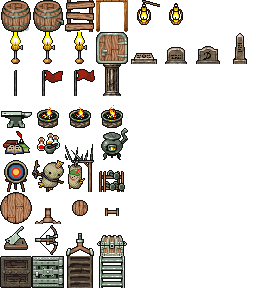
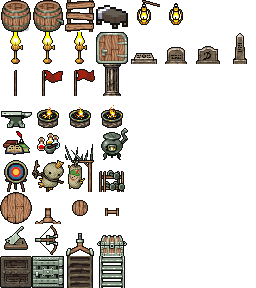
new doodads for worldgen screen, lots of graphics cleanup

Changed region(s): [[0.375, 0.0, 0.5, 0.125]]

diff --git a/DwarfCorp/DwarfCorpXNA/Scripting/Crafting/CraftLibrary.cs b/DwarfCorp/DwarfCorpXNA/Scripting/Crafting/CraftLibrary.cs
@@ -86,7 +86,7 @@ namespace DwarfCorp
                         {
                             new Quantitiy<Resource.ResourceTags>(Resource.ResourceTags.Fuel, 1)
                         },
-                        Icon = new Gui.TileReference("furniture", 5),
+                        Icon = new Gui.TileReference("furniture", 9),
                         BaseCraftTime = 10,
                         Prerequisites = new List<CraftItem.CraftPrereq>() { CraftItem.CraftPrereq.OnGround},
                         CraftLocation = ""
@@ -118,7 +118,7 @@ namespace DwarfCorp
                         {
                             new Quantitiy<Resource.ResourceTags>(Resource.ResourceTags.Stone, 1)
                         },
-                        Icon = new Gui.TileReference("furniture", 34),
+                        Icon = new Gui.TileReference("furniture", 66),
                         BaseCraftTime = 10,
                         Prerequisites = new List<CraftItem.CraftPrereq>() { CraftItem.CraftPrereq.NearWall},
                         CraftLocation = ""
@@ -134,7 +134,7 @@ namespace DwarfCorp
                         {
                             new Quantitiy<Resource.ResourceTags>(Resource.ResourceTags.Metal, 1)
                         },
-                        Icon = new Gui.TileReference("furniture", 35),
+                        Icon = new Gui.TileReference("furniture", 67),
                         BaseCraftTime = 10,
                         Prerequisites = new List<CraftItem.CraftPrereq>() { CraftItem.CraftPrereq.NearWall},
                         CraftLocation = ""
@@ -150,7 +150,7 @@ namespace DwarfCorp
                         {
                             new Quantitiy<Resource.ResourceTags>(Resource.ResourceTags.Wood, 1)
                         },
-                        Icon = new Gui.TileReference("furniture", 7),
+                        Icon = new Gui.TileReference("furniture", 11),
                         BaseCraftTime = 10,
                         Prerequisites = new List<CraftItem.CraftPrereq>() { CraftItem.CraftPrereq.NearWall},
                         CraftLocation = ""
@@ -166,7 +166,7 @@ namespace DwarfCorp
                         {
                             new Quantitiy<Resource.ResourceTags>(Resource.ResourceTags.Stone, 1)
                         },
-                        Icon = new Gui.TileReference("furniture", 32),
+                        Icon = new Gui.TileReference("furniture", 64),
                         BaseCraftTime = 10,
                         Prerequisites = new List<CraftItem.CraftPrereq>() { CraftItem.CraftPrereq.NearWall},
                         CraftLocation = ""
@@ -182,7 +182,7 @@ namespace DwarfCorp
                         {
                             new Quantitiy<Resource.ResourceTags>(Resource.ResourceTags.Metal, 1)
                         },
-                        Icon = new Gui.TileReference("furniture", 33),
+                        Icon = new Gui.TileReference("furniture", 65),
                         BaseCraftTime = 10,
                         Prerequisites = new List<CraftItem.CraftPrereq>() { CraftItem.CraftPrereq.NearWall},
                         CraftLocation = ""
@@ -300,7 +300,7 @@ namespace DwarfCorp
                             new Quantitiy<Resource.ResourceTags>(Resource.ResourceTags.Metal, 2),
                             new Quantitiy<Resource.ResourceTags>(Resource.ResourceTags.Magical, 1),
                         },
-                        Icon = new Gui.TileReference("furniture", 29),
+                        Icon = new Gui.TileReference("furniture", 57),
                         BaseCraftTime = 30,
                         Prerequisites = new List<CraftItem.CraftPrereq>() { CraftItem.CraftPrereq.OnGround},
                         CraftLocation = ""
@@ -316,7 +316,7 @@ namespace DwarfCorp
                         {
                             new Quantitiy<Resource.ResourceTags>(Resource.ResourceTags.Wood, 1),
                         },
-                        Icon = new Gui.TileReference("furniture", 26),
+                        Icon = new Gui.TileReference("furniture", 50),
                         BaseCraftTime = 3,
                         Prerequisites = new List<CraftItem.CraftPrereq>() { CraftItem.CraftPrereq.OnGround},
                         CraftLocation = ""
@@ -332,7 +332,7 @@ namespace DwarfCorp
                         {
                             new Quantitiy<Resource.ResourceTags>(Resource.ResourceTags.Wood, 4),
                         },
-                        Icon = new Gui.TileReference("furniture", 24),
+                        Icon = new Gui.TileReference("furniture", 48),
                         BaseCraftTime = 50,
                         Prerequisites = new List<CraftItem.CraftPrereq>() { CraftItem.CraftPrereq.OnGround},
                         CraftLocation = ""
@@ -348,7 +348,7 @@ namespace DwarfCorp
                         {
                             new Quantitiy<Resource.ResourceTags>(Resource.ResourceTags.Metal, 4),
                         },
-                        Icon = new Gui.TileReference("furniture", 12),
+                        Icon = new Gui.TileReference("furniture", 24),
                         BaseCraftTime = 50,
                         Prerequisites = new List<CraftItem.CraftPrereq>() { CraftItem.CraftPrereq.OnGround},
                         CraftLocation = ""
@@ -364,7 +364,7 @@ namespace DwarfCorp
                         {
                             new Quantitiy<Resource.ResourceTags>(Resource.ResourceTags.Fuel, 4),
                         },
-                        Icon = new Gui.TileReference("furniture", 13),
+                        Icon = new Gui.TileReference("furniture", 25),
                         BaseCraftTime = 50,
                         Prerequisites = new List<CraftItem.CraftPrereq>() { CraftItem.CraftPrereq.OnGround}
                     }
@@ -379,7 +379,7 @@ namespace DwarfCorp
                         {
                             new Quantitiy<Resource.ResourceTags>(Resource.ResourceTags.Fuel, 2),
                         },
-                        Icon = new Gui.TileReference("furniture", 19),
+                        Icon = new Gui.TileReference("furniture", 35),
                         BaseCraftTime = 50,
                         Prerequisites = new List<CraftItem.CraftPrereq>() { CraftItem.CraftPrereq.OnGround},
                         CraftLocation = ""
@@ -396,7 +396,7 @@ namespace DwarfCorp
                             new Quantitiy<Resource.ResourceTags>(Resource.ResourceTags.Wood, 2),
                              new Quantitiy<Resource.ResourceTags>(Resource.ResourceTags.Metal, 2),
                         },
-                        Icon = new Gui.TileReference("furniture", 28),
+                        Icon = new Gui.TileReference("furniture", 56),
                         BaseCraftTime = 50,
                         Prerequisites = new List<CraftItem.CraftPrereq>() { CraftItem.CraftPrereq.OnGround},
                         CraftLocation = ""
@@ -445,7 +445,7 @@ namespace DwarfCorp
                         {
                             new Quantitiy<Resource.ResourceTags>(Resource.ResourceTags.Grain, 4),
                         },
-                        Icon = new Gui.TileReference("furniture", 21),
+                        Icon = new Gui.TileReference("furniture", 41),
                         BaseCraftTime = 50,
                         Prerequisites = new List<CraftItem.CraftPrereq>() { CraftItem.CraftPrereq.OnGround},
                         CraftLocation = ""
@@ -461,7 +461,7 @@ namespace DwarfCorp
                         {
                             new Quantitiy<Resource.ResourceTags>(Resource.ResourceTags.Magical, 2),
                         },
-                        Icon = new Gui.TileReference("furniture", 17),
+                        Icon = new Gui.TileReference("furniture", 33),
                         BaseCraftTime = 50,
                         Prerequisites = new List<CraftItem.CraftPrereq>() { CraftItem.CraftPrereq.OnGround},
                         CraftLocation = ""
@@ -477,7 +477,7 @@ namespace DwarfCorp
                         {
                             new Quantitiy<Resource.ResourceTags>(Resource.ResourceTags.Magical, 2),
                         },
-                        Icon = new Gui.TileReference("furniture", 16),
+                        Icon = new Gui.TileReference("furniture", 32),
                         BaseCraftTime = 50,
                         Prerequisites = new List<CraftItem.CraftPrereq>() { CraftItem.CraftPrereq.OnGround},
                         CraftLocation = ""
@@ -493,7 +493,7 @@ namespace DwarfCorp
                         {
                             new Quantitiy<Resource.ResourceTags>(Resource.ResourceTags.Magical, 4),
                         },
-                        Icon = new Gui.TileReference("furniture", 16),
+                        Icon = new Gui.TileReference("furniture", 32),
                         BaseCraftTime = 50,
                         Prerequisites = new List<CraftItem.CraftPrereq>() { CraftItem.CraftPrereq.OnGround},
                         CraftLocation = ""

diff --git a/DwarfCorp/DwarfCorpXNA/AssetManagement/ContentPaths.cs b/DwarfCorp/DwarfCorpXNA/AssetManagement/ContentPaths.cs
@@ -352,7 +352,6 @@ namespace DwarfCorp
             public static string slice = ProgramData.CreatePath("Effects", "slice");
             public static string slash = ProgramData.CreatePath("Effects", "slash");
             public static string claw = ProgramData.CreatePath("Effects", "claw");
-            public static string claws = ProgramData.CreatePath("Effects", "claws");
             public static string flash = ProgramData.CreatePath("Effects", "flash");
             public static string rings = ProgramData.CreatePath("Effects", "ring");
             public static string bite = ProgramData.CreatePath("Effects", "bite");
@@ -560,7 +559,7 @@ namespace DwarfCorp
                 public static string underconstruction = ProgramData.CreatePath("Entities", "DwarfObjects", "underconstruction");
                 public static string constructiontape = ProgramData.CreatePath("Entities", "DwarfObjects", "constructiontape");
                 public static string fence = ProgramData.CreatePath("Entities", "DwarfObjects", "fence");
-                public static string crafts = ProgramData.CreatePath("Entities", "DwarfObjects", "crafts");
+                public static string crafts = ProgramData.CreatePath("newgui", "crafts");
                 public static string trinkets_carve_insets_bone = ProgramData.CreatePath("newgui", "trinkets-carve-insets-bone");
                 public static string trinkets_carve_insets = ProgramData.CreatePath("newgui", "trinkets-carve-insets");
                 public static string trinkets_cast_insets = ProgramData.CreatePath("newgui", "trinkets-cast-insets");
@@ -672,13 +671,10 @@ namespace DwarfCorp
         }
         public class GUI
         {
-            public static string gui_widgets = ProgramData.CreatePath("GUI", "gui_widgets");
-            public static string icons = ProgramData.CreatePath("GUI", "icons");
+            public static string icons = ProgramData.CreatePath("newgui", "icons");
             public static string indicators = ProgramData.CreatePath("GUI", "indicators");
             public static string map_icons = ProgramData.CreatePath("GUI", "map_icons");
-            public static string pointers = ProgramData.CreatePath("GUI", "pointers");
-            public static string room_icons = ProgramData.CreatePath("GUI", "room_icons");
-            public static string gui_minimap = ProgramData.CreatePath("GUI", "gui_minimap");
+            public static string room_icons = ProgramData.CreatePath("newgui", "room_icons");
             public static string dorf_diplo = ProgramData.CreatePath("GUI", "diplo-dorf");
             public static string checker = ProgramData.CreatePath("GUI", "checker");
             public static string background = ProgramData.CreatePath("GUI", "background");

diff --git a/DwarfCorp/DwarfCorpXNA/Scripting/Factions/DesignationDrawer.cs b/DwarfCorp/DwarfCorpXNA/Scripting/Factions/DesignationDrawer.cs
@@ -79,31 +79,31 @@ namespace DwarfCorp
             DesignationProperties.Add(DesignationType.Dig, new DesignationTypeProperties
             {
                 Color = Color.Red,
-                Icon = new NamedImageFrame("newgui/pointers2", 32, 1, 0)
+                Icon = new NamedImageFrame("newgui/pointers", 32, 1, 0)
             });
 
             DesignationProperties.Add(DesignationType.Chop, new DesignationTypeProperties
             {
                 Color = Color.LightGreen,
-                Icon = new NamedImageFrame("newgui/pointers2", 32, 5, 0)
+                Icon = new NamedImageFrame("newgui/pointers", 32, 5, 0)
             });
 
             DesignationProperties.Add(DesignationType.Gather, new DesignationTypeProperties
             {
                 Color = Color.Orange,
-                Icon = new NamedImageFrame("newgui/pointers2", 32, 6, 0)
+                Icon = new NamedImageFrame("newgui/pointers", 32, 6, 0)
             });
 
             DesignationProperties.Add(DesignationType.Attack, new DesignationTypeProperties
             {
                 Color = Color.Red,
-                Icon = new NamedImageFrame("newgui/pointers2", 32, 2, 0)
+                Icon = new NamedImageFrame("newgui/pointers", 32, 2, 0)
             });
 
             DesignationProperties.Add(DesignationType.Wrangle, new DesignationTypeProperties
             {
                 Color = Color.Tomato,
-                Icon = new NamedImageFrame("newgui/pointers2", 32, 4, 1)
+                Icon = new NamedImageFrame("newgui/pointers", 32, 4, 1)
             });
         }
 

diff --git a/DwarfCorp/DwarfCorpXNA/Entities/Animals/Spider.cs b/DwarfCorp/DwarfCorpXNA/Entities/Animals/Spider.cs
@@ -92,7 +92,7 @@ namespace DwarfCorp
 
             // The bird can peck at its enemies (0.1 damage)
             Attacks = new List<Attack> { new Attack("Sting", 0.01f, 1.0f, 3.0f, SoundSource.Create(ContentPaths.Audio.Oscar.sfx_oc_giant_spider_attack_1, ContentPaths.Audio.Oscar.sfx_oc_giant_spider_attack_2), ContentPaths.Effects.bite),
-                new Attack("Web", 0.0f, 1.0f, 5.0f, SoundSource.Create(ContentPaths.Audio.Oscar.sfx_oc_giant_spider_attack_1, ContentPaths.Audio.Oscar.sfx_oc_giant_spider_attack_2), ContentPaths.Effects.claws) {Mode = Attack.AttackMode.Ranged, LaunchSpeed = 10, ProjectileType = "Web"} };
+                new Attack("Web", 0.0f, 1.0f, 5.0f, SoundSource.Create(ContentPaths.Audio.Oscar.sfx_oc_giant_spider_attack_1, ContentPaths.Audio.Oscar.sfx_oc_giant_spider_attack_2), ContentPaths.Effects.claw) {Mode = Attack.AttackMode.Ranged, LaunchSpeed = 10, ProjectileType = "Web"} };
 
 
             // The bird can hold one item at a time in its inventory

diff --git a/DwarfCorp/DwarfCorpXNA/Scripting/Player/Tools/GatherTool.cs b/DwarfCorp/DwarfCorpXNA/Scripting/Player/Tools/GatherTool.cs
@@ -133,7 +133,7 @@ namespace DwarfCorp
 
         public override void Render(DwarfGame game, GraphicsDevice graphics, DwarfTime time)
         {
-            NamedImageFrame frame = new NamedImageFrame("newgui/pointers2", 32, 6, 0);
+            NamedImageFrame frame = new NamedImageFrame("newgui/pointers", 32, 6, 0);
             // Draw a bounding box around the currently selected bodies.
             foreach (Body body in Player.BodySelector.CurrentBodies)
             {

diff --git a/DwarfCorp/DwarfCorpXNA/Scripting/Player/Tools/ChopTool.cs b/DwarfCorp/DwarfCorpXNA/Scripting/Player/Tools/ChopTool.cs
@@ -110,7 +110,7 @@ namespace DwarfCorp
         public override void Render(DwarfGame game, GraphicsDevice graphics, DwarfTime time)
         {
 
-            NamedImageFrame frame = new NamedImageFrame("newgui/pointers2", 32, 5, 0);
+            NamedImageFrame frame = new NamedImageFrame("newgui/pointers", 32, 5, 0);
             foreach (Body tree in Player.BodySelector.CurrentBodies)
             {
                 if (tree.Tags.Contains("Vegetation"))

diff --git a/DwarfCorp/DwarfCorpXNA/Scripting/Player/Tools/GuardTool.cs b/DwarfCorp/DwarfCorpXNA/Scripting/Player/Tools/GuardTool.cs
@@ -142,7 +142,7 @@ namespace DwarfCorp
 
         public override void Render(DwarfGame game, GraphicsDevice graphics, DwarfTime time)
         {
-            NamedImageFrame frame = new NamedImageFrame("newgui/pointers2", 32, 3, 0);
+            NamedImageFrame frame = new NamedImageFrame("newgui/pointers", 32, 3, 0);
             foreach (BuildOrder d in Player.Faction.GuardDesignations)
             {
                 var v = d.Vox;

diff --git a/DwarfCorp/DwarfCorpXNA/Scripting/Player/Tools/FarmTool.cs b/DwarfCorp/DwarfCorpXNA/Scripting/Player/Tools/FarmTool.cs
@@ -482,7 +482,7 @@ namespace DwarfCorp
 
         public override void Render(DwarfGame game, GraphicsDevice graphics, DwarfTime time)
         {
-            NamedImageFrame frame = new NamedImageFrame("newgui/pointers2", 32, 4, 1);
+            NamedImageFrame frame = new NamedImageFrame("newgui/pointers", 32, 4, 1);
             switch (Mode)
             {
                 case FarmMode.Tilling:
